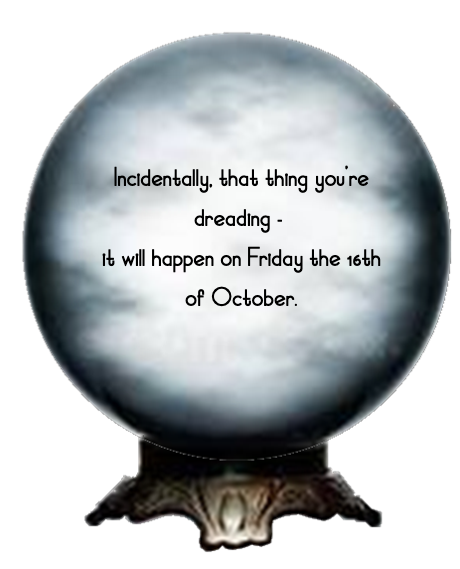
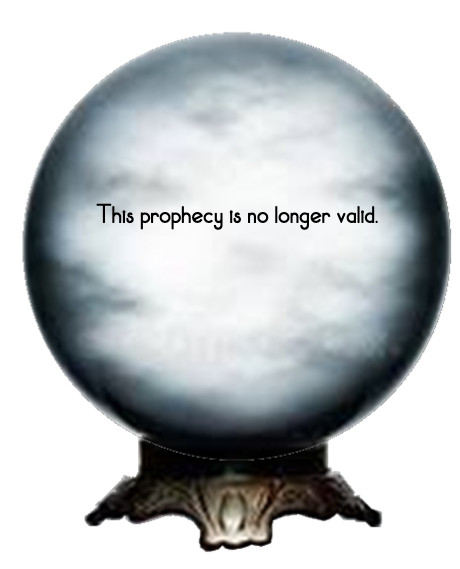
updated answers, updated content

Changed region(s): [[0.213, 0.2988, 0.8522, 0.478], [0.3957, 0.5079, 0.6391, 0.5378]]

diff --git a/index.html b/index.html
@@ -3,24 +3,22 @@
 <head>
    <meta charset="utf-8">
    <meta name="viewport" content="width=device-width, initial-scale=1, shrink-to-fit=no">
-   <!-- Bootstrap CSS -->
-   <!--<link rel="stylesheet" href="https://cdn.jsdelivr.net/npm/bootstrap@4.5.3/dist/css/bootstrap.min.css" integrity="sha384-TX8t27EcRE3e/ihU7zmQxVncDAy5uIKz4rEkgIXeMed4M0jlfIDPvg6uqKI2xXr2" crossorigin="anonymous"> -->
-
     <link rel="stylesheet" href="css/styles.css">
     <script src="js/final-project.js" defer></script>
     <title>Javascript for Beginners - Final Project</title>
 </head>
 <body>
  <div id="content">
-    <h1>Magic 8 Ball Project</h1>
+    <h1>Hall of Prophecy, <br>Department of Mysteries</h1>
 
-    <h2>Ask a question</h2>
+
+    <h3>Inquire About A Prophecy</h3>
 
     <textarea id="questionBox" name="questionBox" rows="4" cols="50">   
     </textarea>
 
     <br>
-    <button class="btn btn-primary" onClick="">Shake</button>
+    <button class="btn" onClick="">Get Answer</button>
  </div>
 
  <div id ="ball">
@@ -29,17 +27,8 @@
     <div id="answer"></div>
 
  </div>
- 
-    
+   
 </div>
     
-
-
-
-
-    
-    <!-- Option 1: jQuery and Bootstrap Bundle (includes Popper) -->
-    <!--<script src="https://code.jquery.com/jquery-3.5.1.slim.min.js" integrity="sha384-DfXdz2htPH0lsSSs5nCTpuj/zy4C+OGpamoFVy38MVBnE+IbbVYUew+OrCXaRkfj" crossorigin="anonymous"></script>
-    <script src="https://cdn.jsdelivr.net/npm/bootstrap@4.5.3/dist/js/bootstrap.bundle.min.js" integrity="sha384-ho+j7jyWK8fNQe+A12Hb8AhRq26LrZ/JpcUGGOn+Y7RsweNrtN/tE3MoK7ZeZDyx" crossorigin="anonymous"></script> -->
 </body>
 </html>

diff --git a/css/styles.css b/css/styles.css
@@ -1,11 +1,23 @@
 body{
     
     text-align: center;
-    background-color: lightblue;
+    background-image: url("/img/deptMystery.jpg");
+    background-repeat: repeat-y;
+    background-size: 100%;
+    color: #95A4AF;
+
+}
+
+#content{
+    margin: auto;
+    background-color: #173653;
+    border-radius: 5px;
+    width: 500px;
 }
 
 .btn{
     margin: 10px;
+    background-color:lightslategray
 }
 
 #ball{
